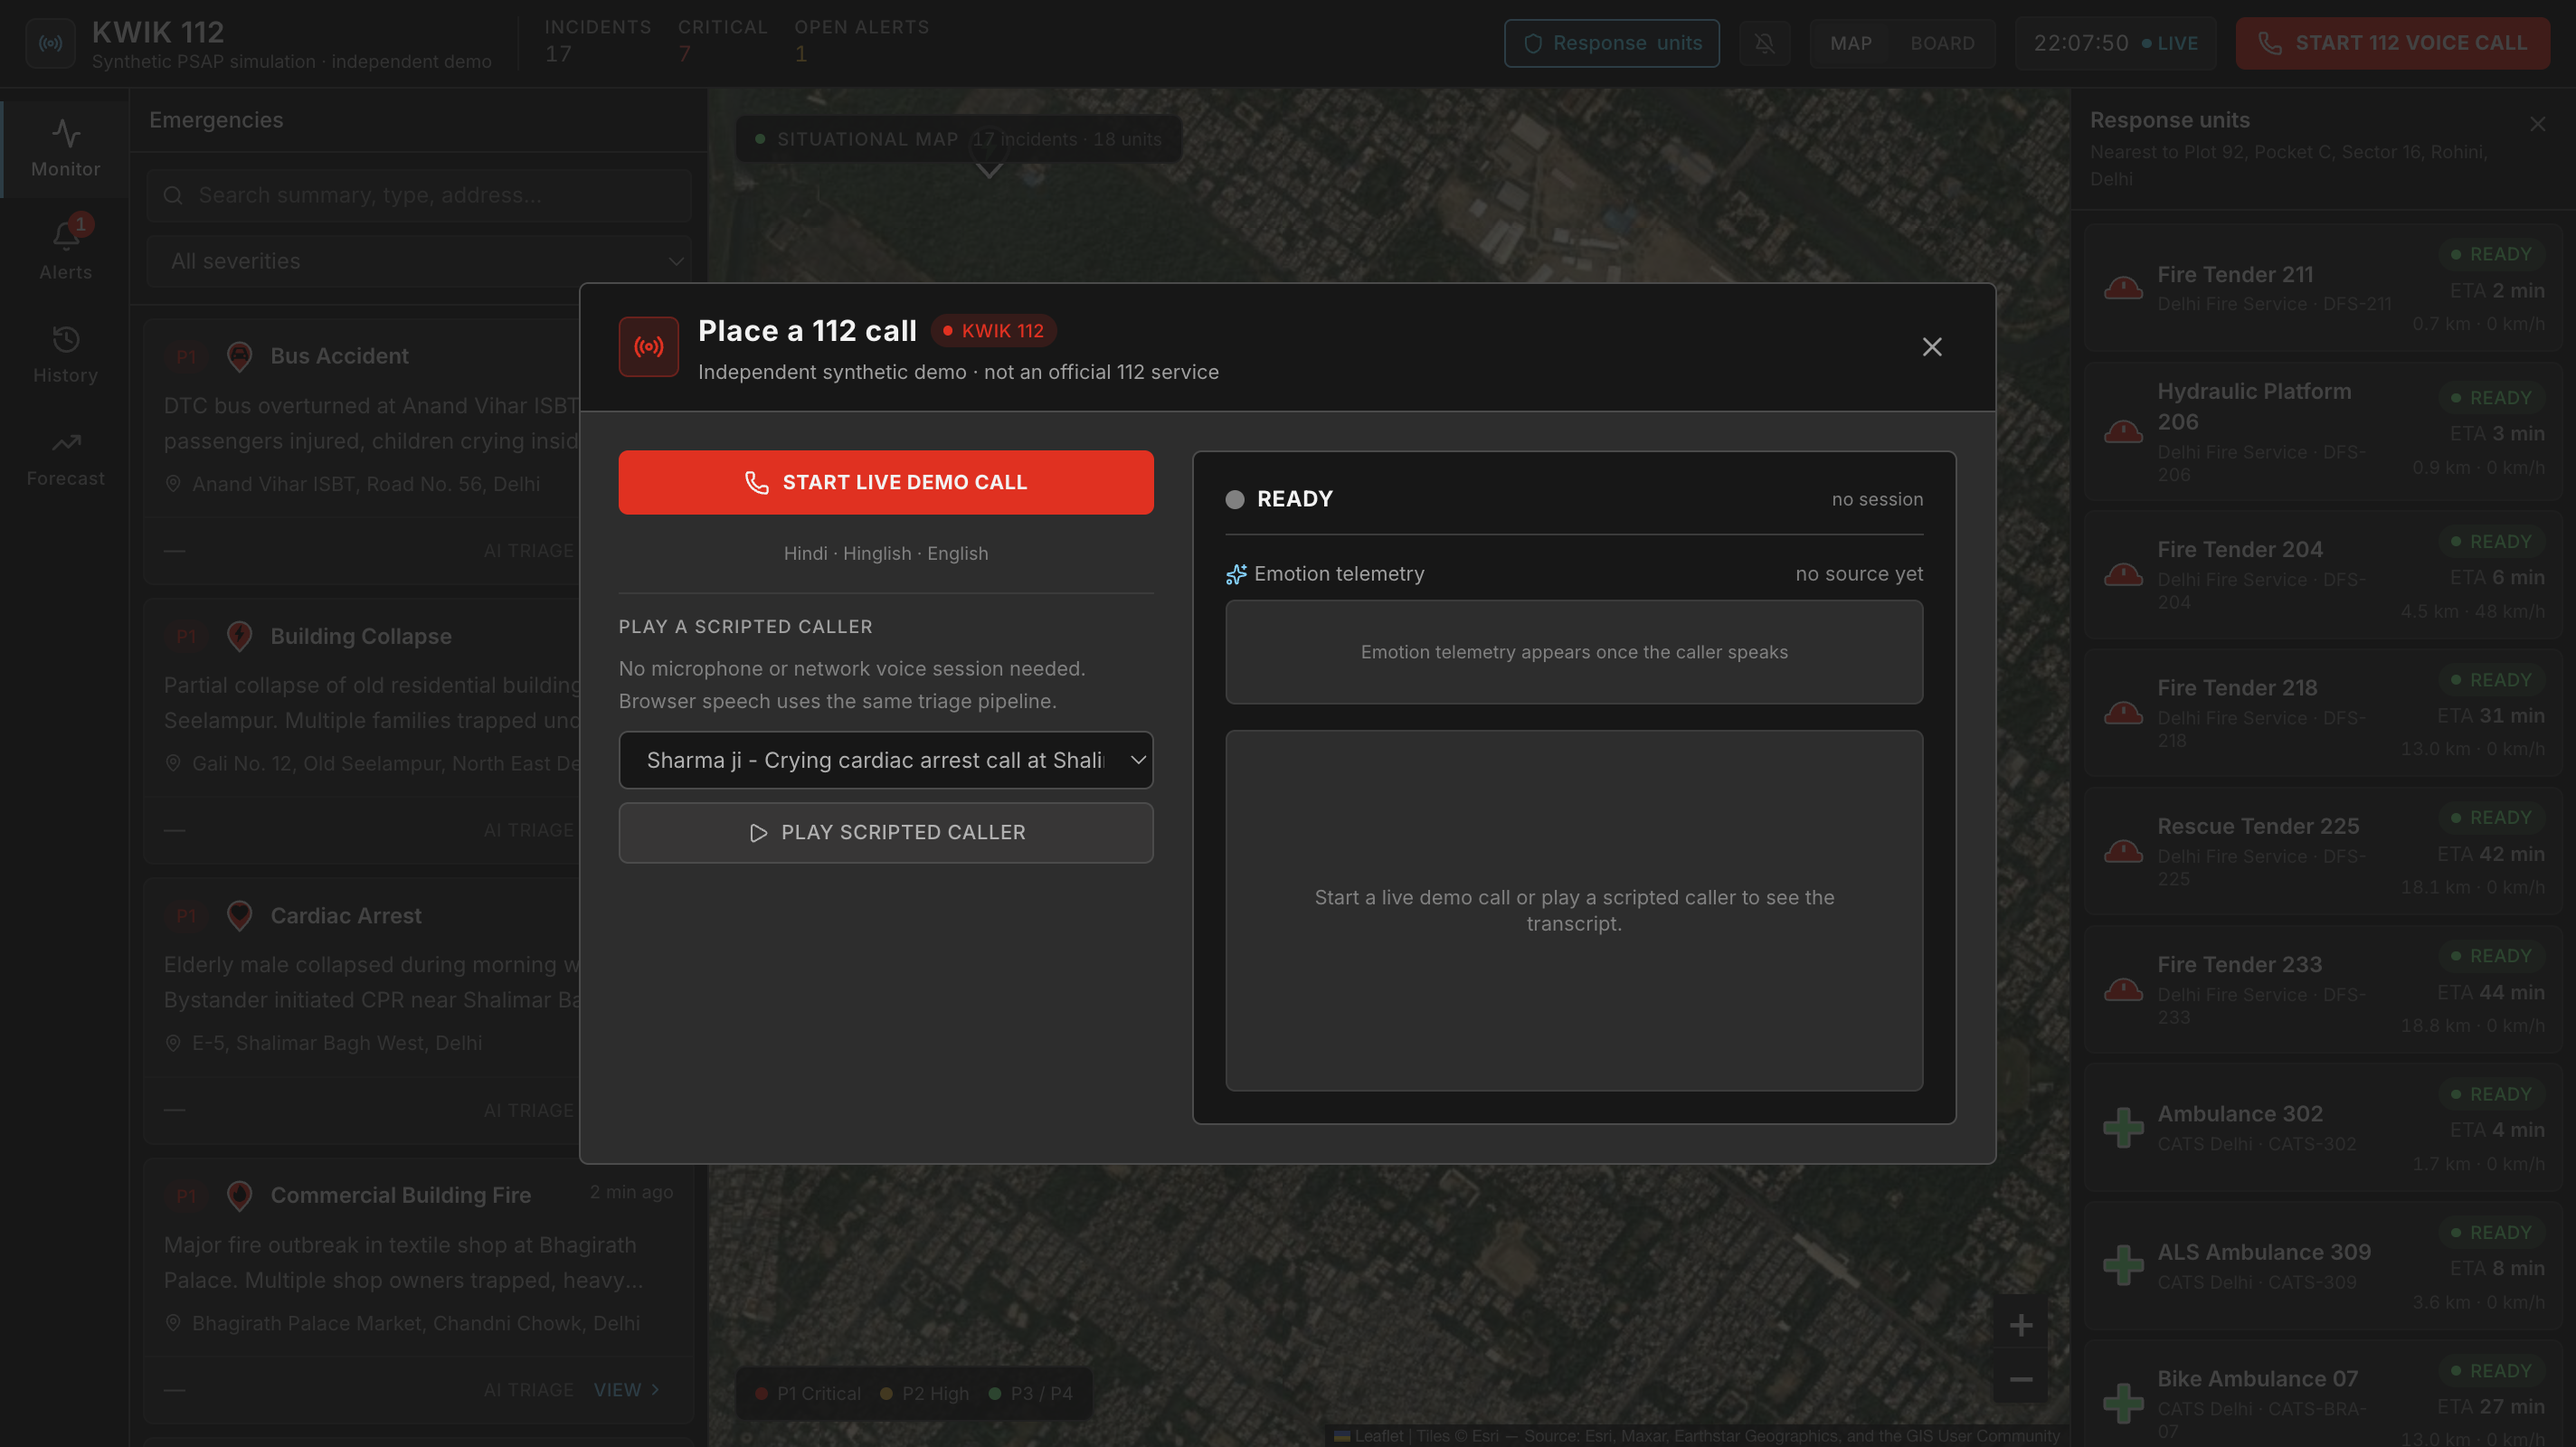
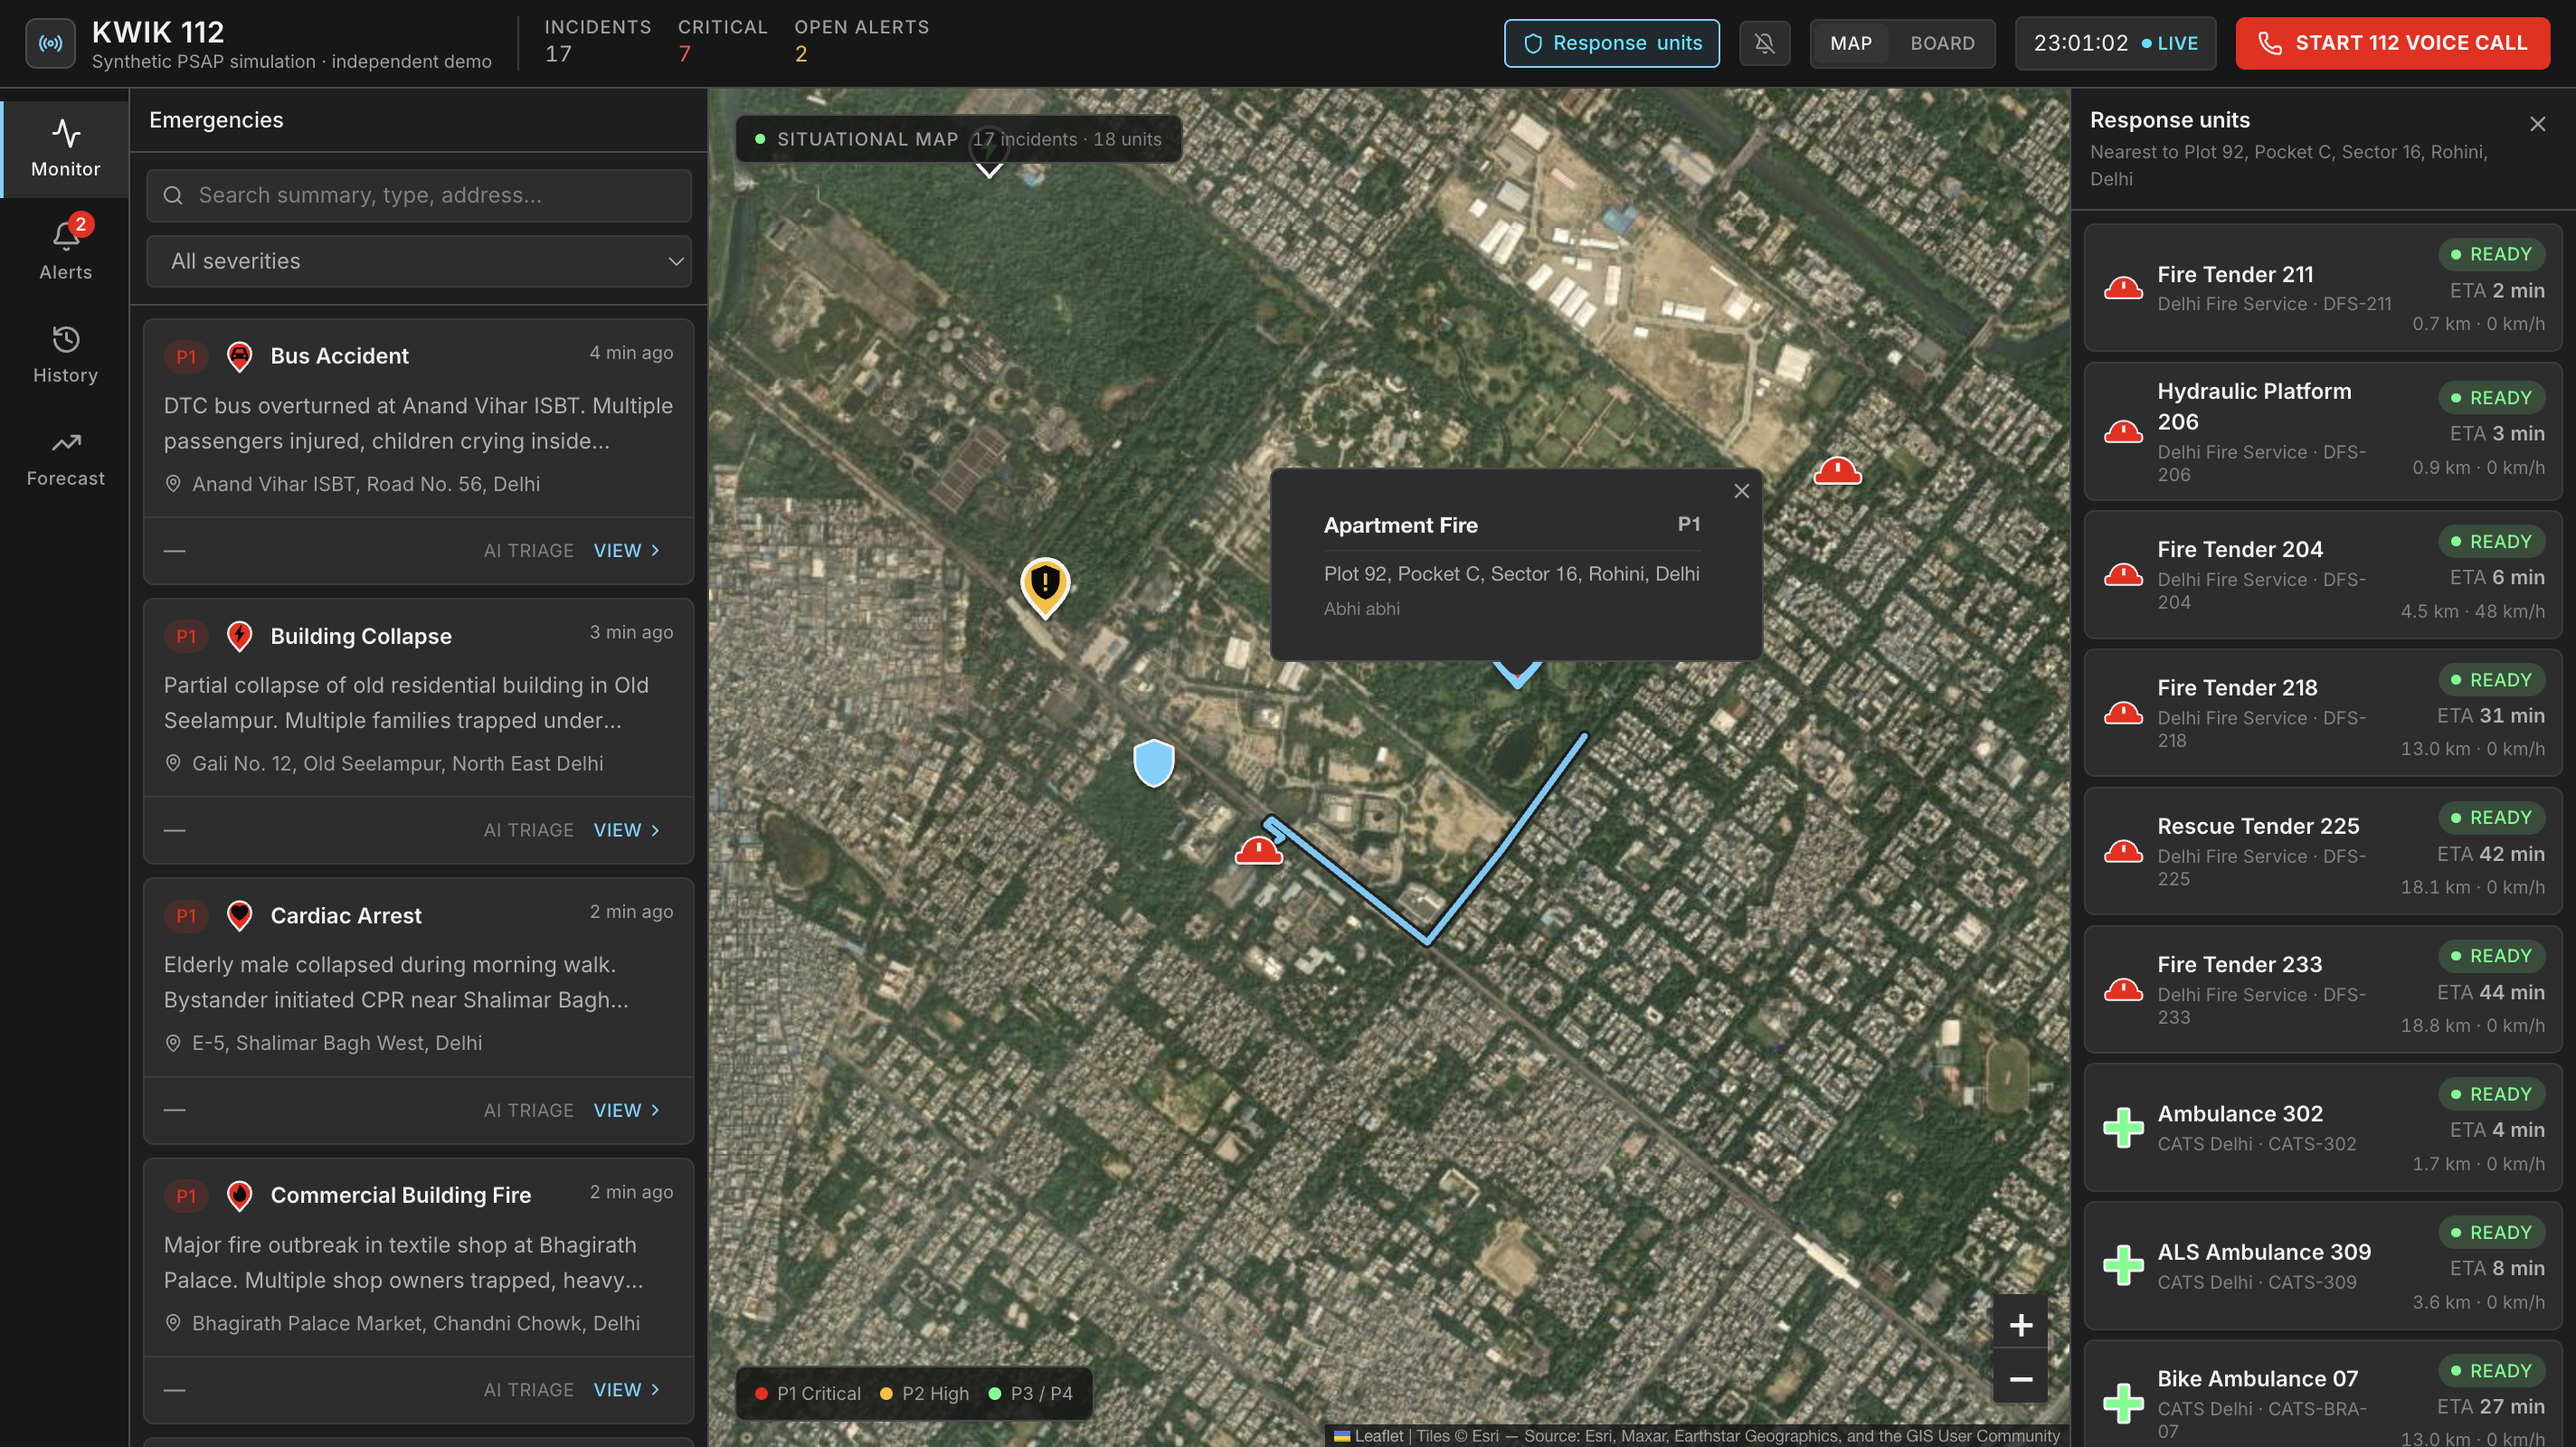
screenshots: retake with the station closed; add kanban board and incident detail
the console shot no longer shows the auto-opened call station; kanban shot
asserts lane headers rendered, detail shot asserts audit markers present.
six-shot grid: console, kanban, incident detail, voice station (single popup
shot), benchmark, judge guide.

diff --git a/README.md b/README.md
@@ -29,13 +29,17 @@ A citizen on a keypad phone, on 2G, who cannot read an app, dials 112 — and wa
 
 ## Screenshots
 
-| Voice station — the call | Dispatcher console — the board |
+| Dispatcher console — queue, map, roster | Kanban board — the pipeline |
 |:---:|:---:|
-| <img src="docs/assets/screenshots/voice-station.png" width="440" alt="Voice station: live transcript, language, and prosody provenance"> | <img src="docs/assets/screenshots/console.png" width="440" alt="Dispatcher console: graded incident cards, map, roster"> |
+| <img src="docs/assets/screenshots/console.png" width="440" alt="Dispatcher console: graded incident queue, live map, response-unit roster"> | <img src="docs/assets/screenshots/kanban.png" width="440" alt="Five-lane Kanban board from AI triage to resolution"> |
 
-| Benchmark — failures included | Judge guide — what is real |
+| Incident detail — the audit trail | Voice station — the call |
 |:---:|:---:|
-| <img src="docs/assets/screenshots/benchmark.png" width="440" alt="Held-out benchmark page: critical recall, triage error rates, reproduction commands"> | <img src="docs/assets/screenshots/for-judges.png" width="440" alt="For-judges page: the real-vs-simulated table and provider disclosure"> |
+| <img src="docs/assets/screenshots/incident-detail.png" width="440" alt="Incident detail: transcript, why-this-priority audit, checkpoints, timeline"> | <img src="docs/assets/screenshots/voice-station.png" width="440" alt="Voice station: live transcript, language, and prosody provenance"> |
+
+| Benchmark — both runs, failures included | Judge guide — what is real |
+|:---:|:---:|
+| <img src="docs/assets/screenshots/benchmark.png" width="440" alt="Benchmark page: rules-only and hybrid GLM runs with triage error rates"> | <img src="docs/assets/screenshots/for-judges.png" width="440" alt="For-judges page: the real-vs-simulated table and provider disclosure"> |
 
 ## Why this exists
 
